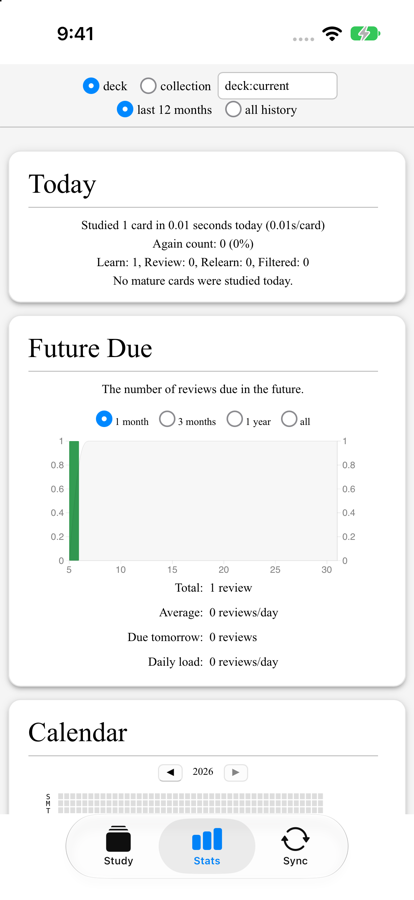
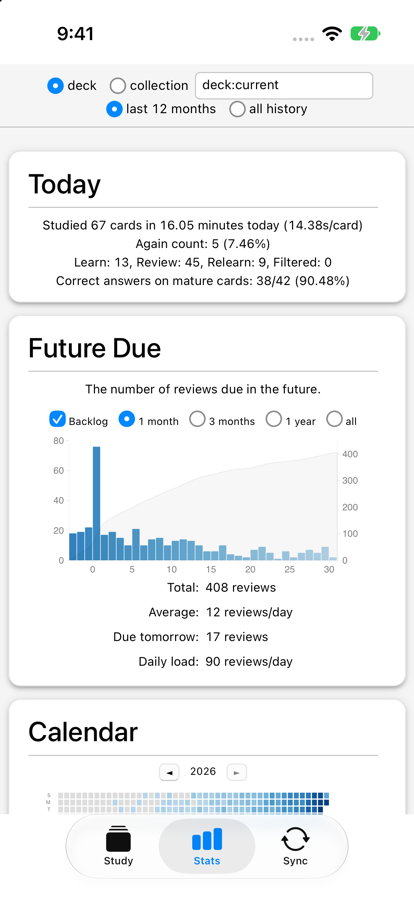
Give the Stats page the system font and one colour palette
Every graph now uses the calendar's blues, with one warm accent for
lapses, Again and high difficulty. The calendar's weekday labels use the
page font and fit their rows. The graph changes are a patch that
scripts/setup.sh applies to its copy of Anki.

diff --git a/Sources/Web/SchemeHandler.swift b/Sources/Web/SchemeHandler.swift
@@ -18,6 +18,10 @@ final class SchemeHandler: NSObject, WKURLSchemeHandler {
     <link rel="stylesheet" href="/_anki/css/reviewer.css"><script src="/_anki/js/reviewer.js"></script></head>
     <body class="card"><div id="_mark" hidden>&#x2605;</div><div id="_flag" hidden>&#x2691;</div><div id="qa" dir="auto"></div></body></html>
     """
+    private static let pageFont = """
+    <style>html, body, button, input, select, textarea { font-family: -apple-system, system-ui, sans-serif; }
+    body { font-variant-numeric: tabular-nums; -webkit-font-smoothing: antialiased; }</style>
+    """
     private static let mimeTypes = [
         "js": "text/javascript", "mjs": "text/javascript", "css": "text/css", "html": "text/html", "svg": "image/svg+xml",
         "png": "image/png", "jpg": "image/jpeg", "jpeg": "image/jpeg", "gif": "image/gif", "webp": "image/webp",
@@ -70,6 +74,8 @@ final class SchemeHandler: NSObject, WKURLSchemeHandler {
         if Self.routes.contains(first), var html = (try? Data(contentsOf: web.appendingPathComponent("sveltekit/index.html"))).flatMap({ String(data: $0, encoding: .utf8) }) {
             // Same as desktop's _strip_csp_meta for trusted pages.
             html = html.replacingOccurrences(of: #"<meta[^>]*http-equiv=["']?content-security-policy[^>]*>"#, with: "", options: [.regularExpression, .caseInsensitive])
+            // Desktop's window supplies the font. Without it these pages fall back to Times.
+            html = html.replacingOccurrences(of: "</head>", with: Self.pageFont + "</head>")
             return (200, "text/html", Data(html.utf8))
         }
         var url: URL
